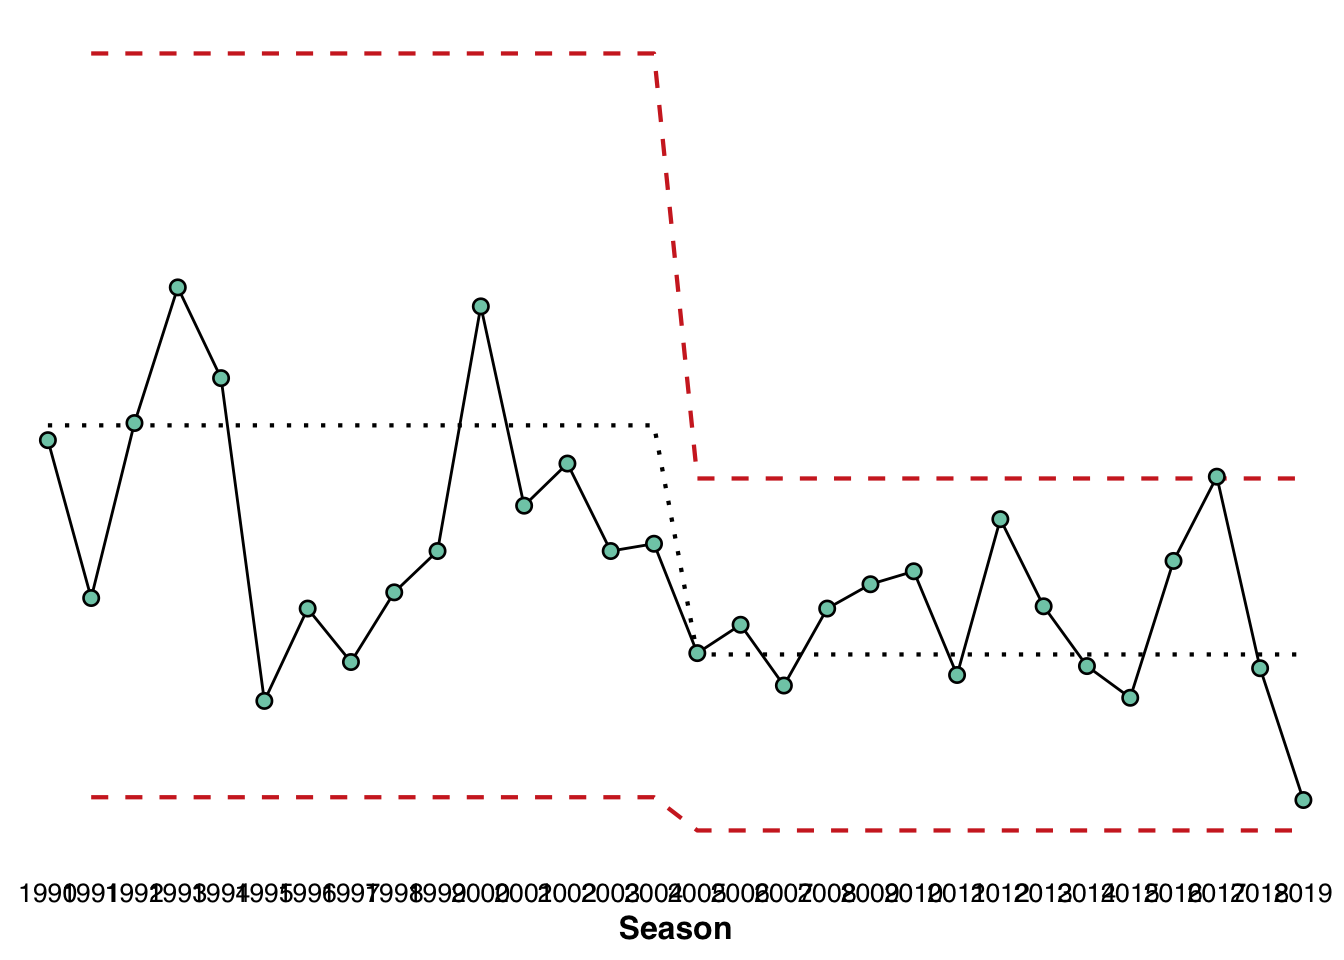
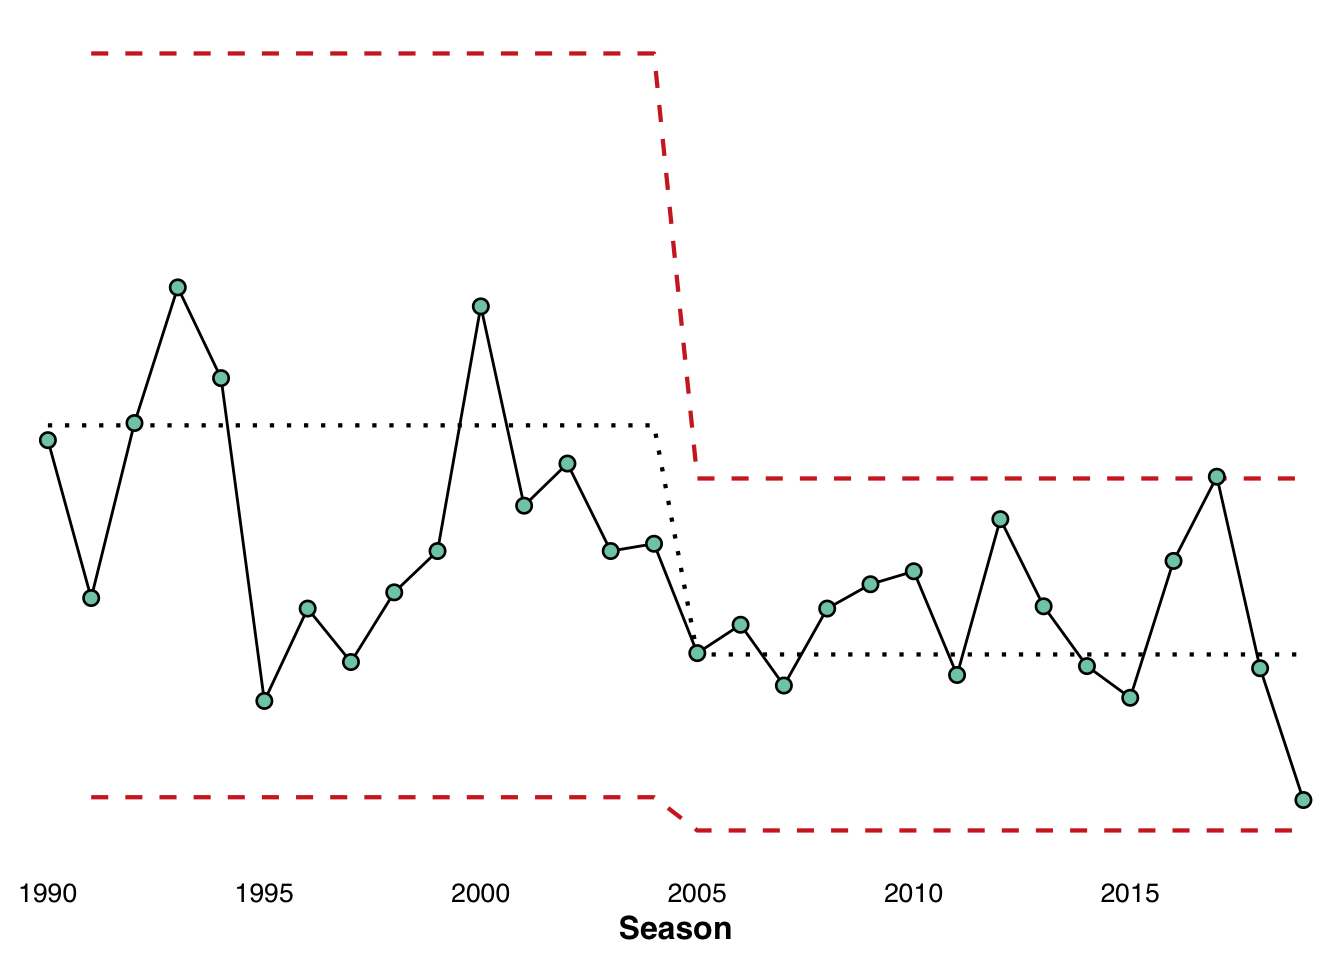
push
push

diff --git a/content/makemeauseR/2019-01-09-making-a-one-pager.html b/content/makemeauseR/2019-01-09-making-a-one-pager.html
@@ -147,3 +147,122 @@ df&lt;-fitzRoy::player_stats%&gt;%
 ##   100 ▁▁▁▃▆▇▇▂
 ##  9738 ▇▅▅▅▅▅▅▇
 ##  2019 ▁▁▁▇▁▁▁▁</code></pre>
+<p>Next lets get the players positions and for funsies lets get some other infomation as well.</p>
+<pre class="r"><code>library(rvest)</code></pre>
+<pre><code>## Loading required package: xml2</code></pre>
+<pre><code>## 
+## Attaching package: &#39;rvest&#39;</code></pre>
+<pre><code>## The following object is masked from &#39;package:purrr&#39;:
+## 
+##     pluck</code></pre>
+<pre><code>## The following object is masked from &#39;package:readr&#39;:
+## 
+##     guess_encoding</code></pre>
+<pre class="r"><code>url&lt;-&quot;https://www.footywire.com/afl/footy/ft_players&quot;
+
+
+link&lt;-read_html(url)%&gt;%
+html_nodes(&quot;br+ a , .lnormtop a:nth-child(1)&quot;)%&gt;%
+  html_attr(&quot;href&quot;)
+
+url_players&lt;-str_c(&quot;https://www.footywire.com/afl/footy/&quot;,link)
+
+cbind.fill &lt;- function(...){
+    nm &lt;- list(...) 
+    nm &lt;- lapply(nm, as.matrix)
+    n &lt;- max(sapply(nm, nrow)) 
+    do.call(cbind, lapply(nm, function (x) 
+        rbind(x, matrix(, n-nrow(x), ncol(x))))) 
+}
+
+player_info &lt;- function(x){
+  # page &lt;- read_html(x)
+  page&lt;-read_html(x)
+
+player&lt;- page%&gt;%
+  html_nodes(&quot;#playerProfileName&quot;)%&gt;%
+  html_text()
+# player
+
+playing.for&lt;-  page%&gt;%
+  html_nodes(&quot;#playerProfileTeamDiv a b&quot;)%&gt;%
+  html_text() %&gt;% as.tibble()
+# playing.for
+number&lt;-     page%&gt;%
+  html_nodes(&quot;#playerProfileTeamDiv &gt; b&quot;)%&gt;%
+  html_text() %&gt;% as.tibble()
+# number
+weight&lt;-page%&gt;%
+  html_nodes(&quot;#playerProfileData2&quot;)%&gt;%
+  html_text()%&gt;%
+  str_replace_all(&quot;[\r\n]&quot; , &quot;&quot;)%&gt;%
+  str_squish()%&gt;%
+  str_extract(pattern =(&quot;(?&lt;=Weight:).*(?=Position:)&quot;))%&gt;%as.tibble()
+# weight
+
+height&lt;-page%&gt;%
+  html_nodes(&quot;#playerProfileData2&quot;)%&gt;%
+  html_text()%&gt;%
+  str_replace_all(&quot;[\r\n]&quot; , &quot;&quot;)%&gt;%
+  str_squish()%&gt;%
+  str_extract(pattern =(&quot;(?&lt;=Height:).*(?=Weight:)&quot;))%&gt;%as.tibble()
+# height
+draft_position &lt;- page%&gt;%
+  html_nodes(&quot;#playerProfileDraftInfo&quot;)%&gt;%
+  html_text()%&gt;%
+  str_replace_all(&quot;[\r\n]&quot; , &quot;&quot;)%&gt;%
+  str_squish()%&gt;%
+  str_extract(pattern =(&quot;(?&lt;=Drafted: ).*(?=by)&quot;))%&gt;%as.tibble()
+# draft_position
+club_drafted &lt;- page%&gt;%
+  html_nodes(&quot;#playerProfileDraftInfo a+ a&quot;)%&gt;%
+  html_text()%&gt;%str_replace_all(&quot;[\r\n]&quot; , &quot;&quot;)%&gt;%
+  str_squish()%&gt;%
+  str_remove(&quot;.*by&quot;) %&gt;% as.tibble()
+# club_drafted
+position &lt;-     page%&gt;%
+  html_nodes(&quot;#playerProfileData2&quot;)%&gt;%
+  html_text()%&gt;%
+  str_replace_all(&quot;[\r\n]&quot; , &quot;&quot;)%&gt;%
+  str_remove(&quot;.*Position: &quot;)%&gt;%
+  str_squish() %&gt;% as.tibble()
+
+sc_price&lt;-page%&gt;%
+  html_nodes(&quot;#playerProfileSupercoach&quot;)%&gt;%
+  html_text()%&gt;%
+  str_replace_all(&quot;[\r\n]&quot; , &quot;&quot;)%&gt;%
+  str_squish()%&gt;%
+  str_extract(pattern =(&quot;(?&lt;=Price:).*(?=Supercoach Profile)&quot;))%&gt;%as.tibble()
+# sc_price
+
+af_price&lt;-page%&gt;%
+  html_nodes(&quot;#playerProfileDreamteam&quot;)%&gt;%
+  html_text()%&gt;%
+  str_replace_all(&quot;[\r\n]&quot; , &quot;&quot;)%&gt;%
+  str_squish()%&gt;%
+  str_extract(pattern =(&quot;(?&lt;=Price:).*(?=AFL Fantasy Profile)&quot;))%&gt;%as.tibble()
+# af_price
+
+player_information &lt;- cbind.fill(player, playing.for, number, weight, height,draft_position, club_drafted, position, sc_price, af_price)
+
+player_information &lt;- as.tibble(player_information)
+  
+  
+  
+  
+  #combine, name, and make it a tibble
+  player_information &lt;- cbind.fill(player, playing.for, number, weight, height,draft_position, club_drafted, position, sc_price, af_price)
+  
+  player_information &lt;- as.tibble(player_information)
+
+  # print(x)
+  # return(x)
+  return(player_information)
+}
+footywire &lt;- purrr::map_df(url_players, player_info)</code></pre>
+<pre><code>## Warning: `as.tibble()` is deprecated, use `as_tibble()` (but mind the new semantics).
+## This warning is displayed once per session.</code></pre>
+<pre class="r"><code>names(footywire) &lt;- c(&quot;player&quot;, &quot;club&quot;, &quot;number&quot;,&quot;weight&quot;,&quot;height&quot;,  &quot;draft_position&quot;, &quot;club_drafted&quot;, &quot;position&quot;,&quot;sc_price&quot;, &quot;af_price&quot;)</code></pre>
+<p>After all this, we need to join the information together so its in one dataframe.</p>
+<p>Get data into one dataframe, do a table like on rotowire</p>
+<p>Bonus, take a team, say collingwood and show the distribution of points given up to ‘mid/fwds’</p>

diff --git a/content/thoughts/2019-04-20-control-charts-another-package.html b/content/thoughts/2019-04-20-control-charts-another-package.html
@@ -49,33 +49,33 @@ Measure &lt;-  runif(length(Year))
 df &lt;- data.frame(Year, Measure)
 head(df)</code></pre>
 <pre><code>##   Year   Measure
-## 1 2001 0.6146880
-## 2 2002 0.2854914
-## 3 2003 0.6081190
-## 4 2004 0.4357665
-## 5 2005 0.1509844
-## 6 2006 0.5935707</code></pre>
+## 1 2001 0.7021658
+## 2 2002 0.6488748
+## 3 2003 0.9156940
+## 4 2004 0.9788410
+## 5 2005 0.6417381
+## 6 2006 0.5848234</code></pre>
 <pre class="r"><code>xmr(df, &quot;Measure&quot;, recalc = T)</code></pre>
 <pre><code>##   Year   Measure Order Central Line Moving Range Average Moving Range
-## 1 2001 0.6146880     1        0.419           NA                   NA
-## 2 2002 0.2854914     2        0.419        0.329                0.277
-## 3 2003 0.6081190     3        0.419        0.323                0.277
-## 4 2004 0.4357665     4        0.419        0.172                0.277
-## 5 2005 0.1509844     5        0.419        0.285                0.277
-## 6 2006 0.5935707     6        0.419        0.443                0.277
-## 7 2007 0.5739720     7        0.419        0.020                0.277
-## 8 2008 0.9961513     8        0.419        0.422                0.277
-## 9 2009 0.9091553     9        0.419        0.087                0.277
+## 1 2001 0.7021658     1        0.777           NA                   NA
+## 2 2002 0.6488748     2        0.777        0.053                 0.18
+## 3 2003 0.9156940     3        0.777        0.267                 0.18
+## 4 2004 0.9788410     4        0.777        0.063                 0.18
+## 5 2005 0.6417381     5        0.777        0.337                 0.18
+## 6 2006 0.5848234     6        0.777        0.057                 0.18
+## 7 2007 0.9490080     7        0.777        0.364                 0.18
+## 8 2008 0.5043880     8        0.777        0.445                 0.18
+## 9 2009 0.8819234     9        0.777        0.378                 0.18
 ##   Lower Natural Process Limit Upper Natural Process Limit
 ## 1                          NA                          NA
-## 2                           0                       1.156
-## 3                           0                       1.156
-## 4                           0                       1.156
-## 5                           0                       1.156
-## 6                           0                       1.156
-## 7                           0                       1.156
-## 8                           0                       1.156
-## 9                           0                       1.156</code></pre>
+## 2                       0.298                       1.257
+## 3                       0.298                       1.257
+## 4                       0.298                       1.257
+## 5                       0.298                       1.257
+## 6                       0.298                       1.257
+## 7                       0.298                       1.257
+## 8                       0.298                       1.257
+## 9                       0.298                       1.257</code></pre>
 <p>Lets create a similar dataframe as df, but using data from <a href="https://github.com/jimmyday12/fitzRoy">fitzRoy</a></p>
 <pre class="r"><code>df&lt;-fitzRoy::match_results%&gt;%
   mutate(total=Home.Points+Away.Points)%&gt;%
@@ -89,6 +89,7 @@ xmr_data &lt;-xmr(df, &quot;meantotal&quot;, recalc = T)
 xmr_chart(df = xmr_data, 
           time = &quot;Season&quot;, 
           measure = &quot;meantotal&quot;,
-          line_width = 0.75, text_size = 12, point_size = 2.5)</code></pre>
+          line_width = 0.75, text_size = 12, point_size = 2.5) +
+          scale_x_discrete(breaks = seq(1990, 2020, 5))</code></pre>
 <p><img src="/thoughts/2019-04-20-control-charts-another-package_files/figure-html/unnamed-chunk-3-1.png" width="672" /></p>
 <p>Does this tell a different story or a very similar one to earlier?</p>
